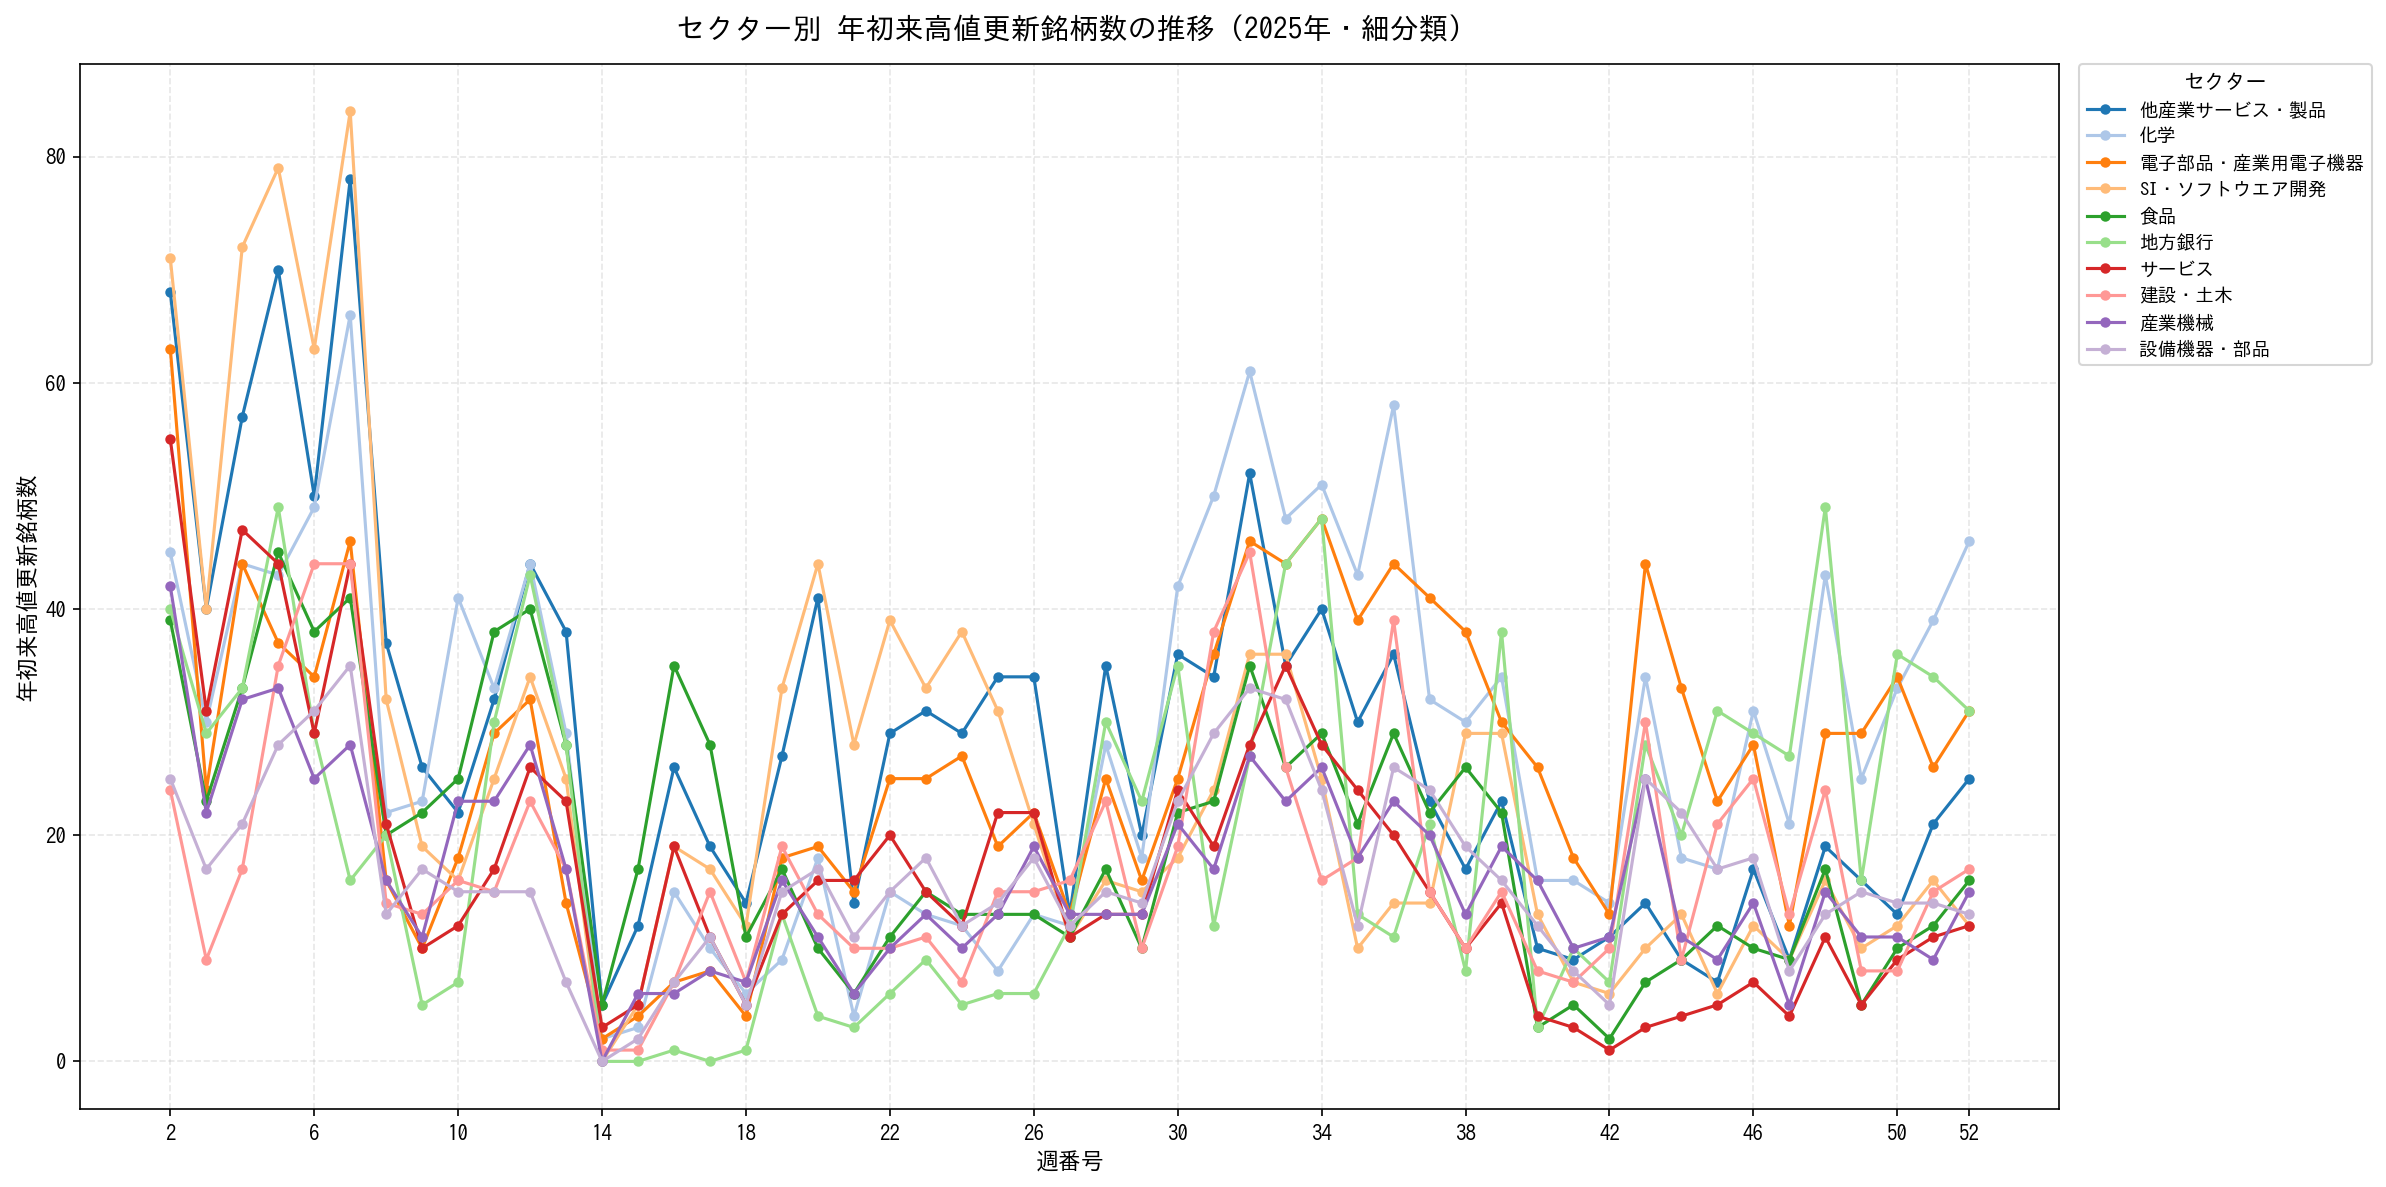
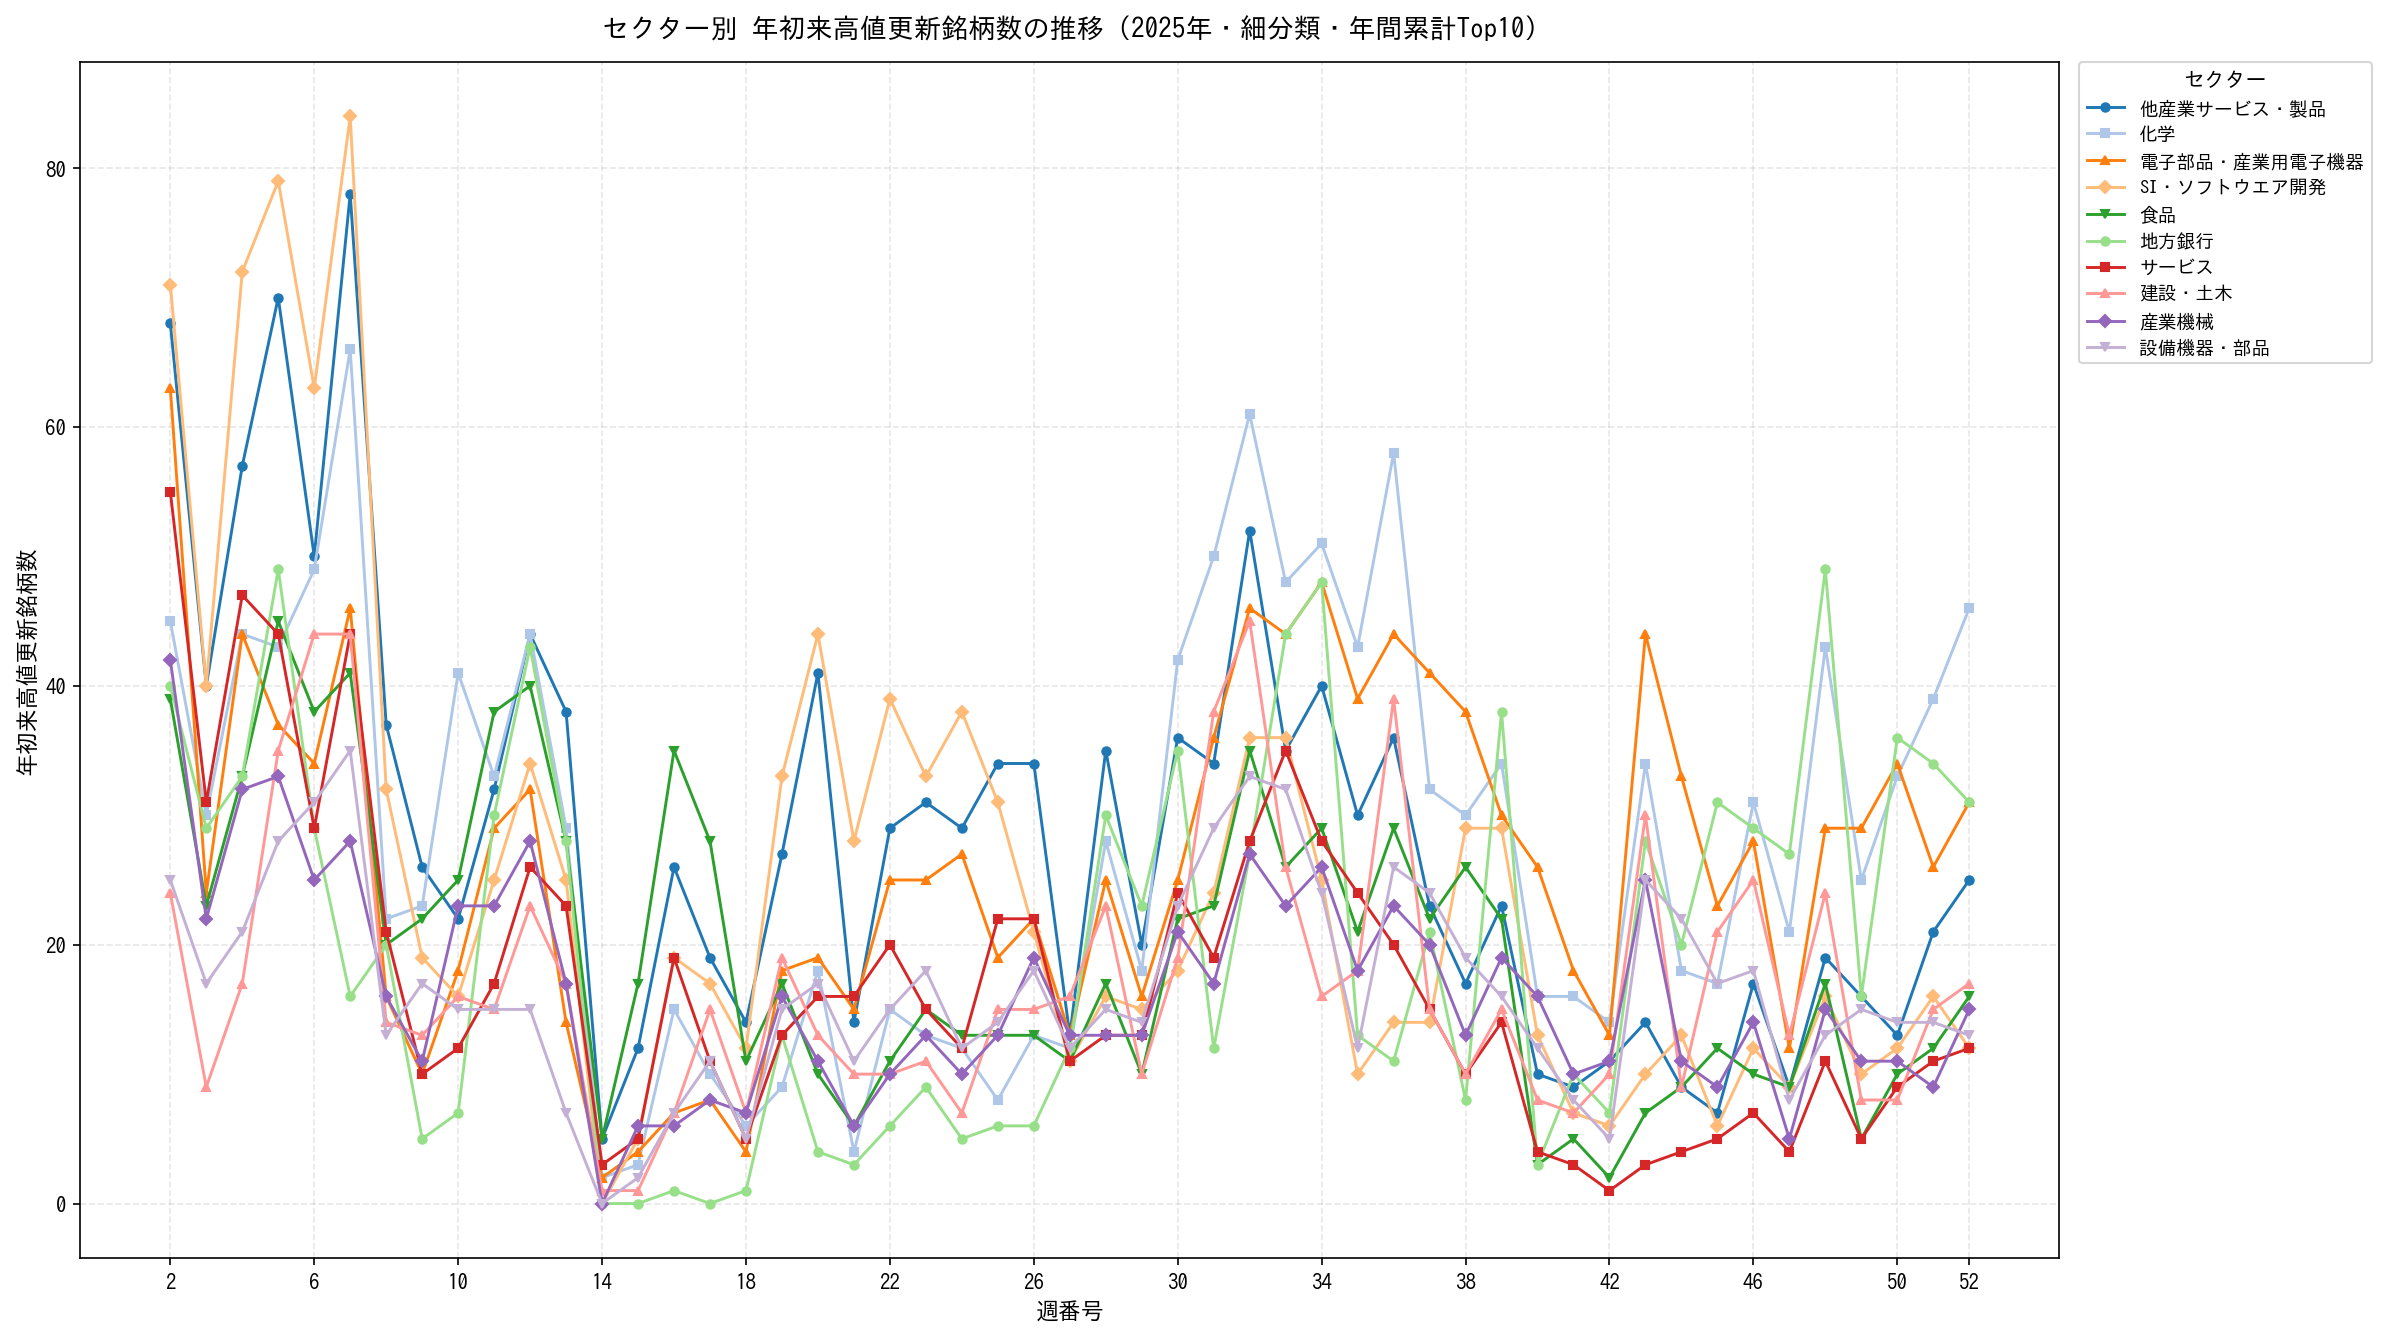
Add weekly-top-N sector selection mode (default) with multi-line chart
- --selection {annual,weekly} (default: weekly)
  - annual: 年間累計Top-N (従来動作)
  - weekly: 各週Top-N に --min-weeks 以上登場したセクター
- --min-weeks N: 週次Top-Nランクイン最低週数 (デフォルト: 2)
- 2025年の場合、週次Top10に2週以上登場した26セクターが選ばれる:
  - 年間累計Top10: 常連10セクター
  - 追加16セクター: 電気機器(15週), 外食・娯楽(16週), 情報通信(19週),
    自動車部品(21週), 不動産(住宅)(14週) など一時的に台頭したセクター
- 折れ線グラフの識別性改善:
  - 20色×2線種(実線/破線) で最大40本の区別可能
  - マーカー5種類を循環
  - 凡例はランクイン週数の多い順
- 出力ファイル名にselection種別を反映: {year}_fine_weekly.{png,csv}

https://claude.ai/code/session_011rtfifD5h5h51NWqFkstZQ

diff --git a/scripts/plot_ytd_high_by_sector.py b/scripts/plot_ytd_high_by_sector.py
@@ -224,7 +224,24 @@ def main() -> int:
         default=ROOT_DIR / "projects" / "shikiho_text_parser" / "output" / "4q2_selection" / "4q2_scored_universe.csv",
         help="細分類セクターCSV (四季報 scored_universe)",
     )
-    parser.add_argument("--top-n", type=int, default=10, help="上位表示セクター数 (デフォルト: 10)")
+    parser.add_argument("--top-n", type=int, default=10, help="週次/年間上位セクター数 (デフォルト: 10)")
+    parser.add_argument(
+        "--selection",
+        choices=["annual", "weekly"],
+        default="weekly",
+        help=(
+            "セクター選択方法: "
+            "annual=年間累計Top-N, "
+            "weekly=各週Top-N に --min-weeks 以上登場したセクター "
+            "(デフォルト: weekly)"
+        ),
+    )
+    parser.add_argument(
+        "--min-weeks",
+        type=int,
+        default=2,
+        help="selection=weekly のとき、Top-Nランクイン最低週数 (デフォルト: 2)",
+    )
     parser.add_argument(
         "--show-other",
         action="store_true",
@@ -248,7 +265,9 @@ def main() -> int:
     year: int = args.year
     price_dir: Path = args.price_dir
     top_n: int = args.top_n
-    suffix = "_fine" if args.granularity == "fine" else ""
+    granularity_suffix = "_fine" if args.granularity == "fine" else ""
+    selection_suffix = "_weekly" if args.selection == "weekly" else ""
+    suffix = f"{granularity_suffix}{selection_suffix}"
     output_png: Path = args.output or ROOT_DIR / "data" / f"ytd_high_by_sector_{year}{suffix}.png"
     output_csv: Path = args.csv_output or ROOT_DIR / "data" / f"ytd_high_by_sector_{year}{suffix}.csv"
 
@@ -294,12 +313,47 @@ def main() -> int:
     # 全52週のインデックスを確保
     pivot = pivot.reindex(range(1, 53), fill_value=0)
 
-    # Top-N セクター選択
-    sector_totals = pivot.sum(axis=0).sort_values(ascending=False)
-    top_sectors = sector_totals.head(top_n).index.tolist()
-    other_sectors = [c for c in pivot.columns if c not in top_sectors]
+    # --- セクター選択 ---
+    if args.selection == "annual":
+        # 年間累計でTop-N
+        sector_totals = pivot.sum(axis=0).sort_values(ascending=False)
+        selected_sectors = sector_totals.head(top_n).index.tolist()
+        # 年間累計順で並べる
+        ordered = selected_sectors
+        print(
+            f"      選択方式: annual  累計Top{top_n} セクター数: {len(selected_sectors)}"
+        )
+    else:  # weekly
+        # 第2週以降で各週Top-N にランクインした回数を集計
+        weekly_pivot = pivot.loc[2:]
+        top_n_counts: dict[str, int] = {}
+        for week, row in weekly_pivot.iterrows():
+            if row.sum() == 0:
+                continue
+            weekly_topn = row.sort_values(ascending=False).head(top_n).index.tolist()
+            for sec in weekly_topn:
+                top_n_counts[sec] = top_n_counts.get(sec, 0) + 1
 
-    plot_df = pivot[top_sectors].copy()
+        # min-weeks 以上ランクインしたセクターのみ採用
+        selected_sectors = [
+            sec for sec, cnt in top_n_counts.items() if cnt >= args.min_weeks
+        ]
+        # ランクイン週数の多い順で並べる (同数なら年間累計順)
+        annual_totals = pivot.sum(axis=0)
+        ordered = sorted(
+            selected_sectors,
+            key=lambda s: (-top_n_counts[s], -annual_totals.get(s, 0)),
+        )
+        print(
+            f"      選択方式: weekly  週次Top{top_n}に{args.min_weeks}週以上登場: "
+            f"{len(selected_sectors)} セクター"
+        )
+        # ログ: 各セクターのランクイン週数
+        for sec in ordered:
+            print(f"        {sec}: {top_n_counts[sec]}週")
+
+    other_sectors = [c for c in pivot.columns if c not in selected_sectors]
+    plot_df = pivot[ordered].copy()
     if other_sectors:
         plot_df["その他"] = pivot[other_sectors].sum(axis=1)
 
@@ -325,36 +379,58 @@ def main() -> int:
         cols_to_plot = [c for c in cols_to_plot if c != "その他"]
     plot_display = plot_df.loc[2:, cols_to_plot]
 
-    # カラーパレット (tab20: 最大20色、超過分はローテーション)
+    # カラー & 線種を組み合わせて最大40本を識別可能に
+    # tab20 (20色) × 線種 (solid, dashed) = 40パターン
     cmap = plt.get_cmap("tab20")
     n_cols = len(plot_display.columns)
-    colors = [cmap(i % 20) for i in range(n_cols)]
-    # 「その他」は灰色
-    if "その他" in plot_display.columns:
-        colors[list(plot_display.columns).index("その他")] = (0.6, 0.6, 0.6, 1.0)
+    linestyles = ["-", "--"]
+    markers = ["o", "s", "^", "D", "v"]
 
-    fig, ax = plt.subplots(figsize=(16, 8))
-    plot_display.plot(
-        kind="line",
-        ax=ax,
-        color=colors,
-        marker="o",
-        markersize=4,
-        linewidth=1.5,
-    )
+    colors: list[tuple] = []
+    styles: list[str] = []
+    marker_list: list[str] = []
+    for i in range(n_cols):
+        colors.append(cmap(i % 20))
+        styles.append(linestyles[(i // 20) % len(linestyles)])
+        marker_list.append(markers[i % len(markers)])
+
+    # 「その他」は灰色・点線
+    if "その他" in plot_display.columns:
+        idx = list(plot_display.columns).index("その他")
+        colors[idx] = (0.6, 0.6, 0.6, 1.0)
+        styles[idx] = ":"
+
+    fig, ax = plt.subplots(figsize=(16, 9))
+    for i, col in enumerate(plot_display.columns):
+        ax.plot(
+            plot_display.index,
+            plot_display[col],
+            color=colors[i],
+            linestyle=styles[i],
+            marker=marker_list[i],
+            markersize=4,
+            linewidth=1.4,
+            label=col,
+        )
 
     if use_japanese:
         granularity_label = "細分類" if args.granularity == "fine" else "33業種"
+        if args.selection == "weekly":
+            selection_label = f"週次Top{top_n}に{args.min_weeks}週以上登場"
+        else:
+            selection_label = f"年間累計Top{top_n}"
         ax.set_title(
-            f"セクター別 年初来高値更新銘柄数の推移 ({year}年・{granularity_label})",
-            fontsize=14, pad=12,
+            f"セクター別 年初来高値更新銘柄数の推移 "
+            f"({year}年・{granularity_label}・{selection_label})",
+            fontsize=13, pad=12,
         )
         ax.set_xlabel("週番号", fontsize=11)
         ax.set_ylabel("年初来高値更新銘柄数", fontsize=11)
     else:
         ax.set_title(
-            f"Weekly YTD-High Update Count by Sector ({year}, {args.granularity})",
-            fontsize=14, pad=12,
+            f"Weekly YTD-High Update Count by Sector "
+            f"({year}, {args.granularity}, selection={args.selection})",
+            fontsize=13, pad=12,
         )
         ax.set_xlabel("Week Number", fontsize=11)
         ax.set_ylabel("Number of Stocks Hitting YTD Highs", fontsize=11)